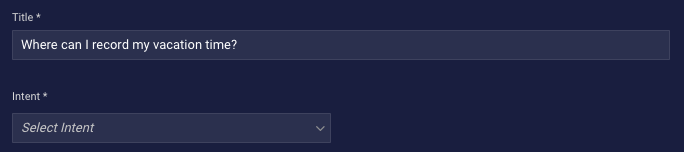
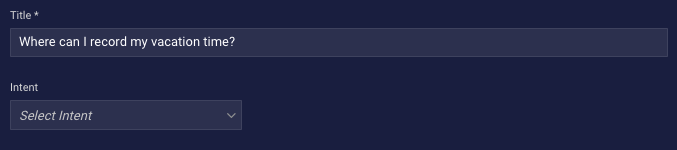
KB enhancements for release 8.0

diff --git a/pages/Documents/ConversationalAI/KnowledgeBase/InternalKnowledgeBases/articles.md b/pages/Documents/ConversationalAI/KnowledgeBase/InternalKnowledgeBases/articles.md
@@ -23,7 +23,7 @@ An article is a focused piece of content (a message) on a single topic that you 
 2. Specify the following basic settings:
     * **Title**: Enter a complete sentence or question, e.g., "I can't remember my password." or, "Do we have a company org chart?" See farther below on this page for best practices.
     * **Intent Qualifiers**: This field is only shown if you're using [Knowledge Base intents](knowledge-base-internal-knowledge-bases-introduction.html#domain-intents-versus-knowledge-base-intents). Intent qualifiers are alternative ways that people ask for the article, i.e., alternative ways to communicate the same intent. See farther below on this page for best practices. **Note**: An intent qualifier can't be used more than once, i.e., in more than one article.
-    * **Intent**: This field is only shown if the knowledge base is using [Domain intents](knowledge-base-internal-knowledge-bases-introduction.html#domain-intents-versus-knowledge-base-intents). Select the intent to associate with the article. See farther below on this page for best practices. If needed, you can use the **Create intent** option in the drop-down list to create the intent in Intent Manager from this location. Similarly, there's an **Update training phrases** link for updating the training phrases in Intent Manager from here. **Note**: An intent can't be used more than once, i.e., in more than one article.
+    * **Intent**: This field is only shown if the knowledge base is using [Domain intents](knowledge-base-internal-knowledge-bases-introduction.html#domain-intents-versus-knowledge-base-intents). Select the intent to associate with the article. See farther below on this page for best practices. If needed, you can use the **Create intent** option in the drop-down list to create the intent in Intent Manager from this location. Similarly, there's an **Update training phrases** link for updating the training phrases in Intent Manager from here. **Note**: An intent can't be used more than once, i.e., in more than one article. Also note that you don’t need to link your articles to intents right away, as the **Intent** field is optional. This is deliberate because it allows you to get started with a knowledge base by adding just the articles first. Then, you can create intents for the content you care about the most, and link those to the relevant articles. This means you can focus on specific content areas in your knowledge base, and manage the content overall with varying levels of effort on your part. The approach gives you flexibility as you maintain the knowledge base over time.
     * **Summary**: Enter a short response or message to be sent to the user. You can include web links, although depending on the channel they might not display correctly. For SMS/Messaging, you might need to show the URL by itself, not wrapped in HTML, since the HTML will be sent as plain text over these channels. For details on the subset of HTML that can be used in this field, see [here](knowledge-base-common-settings-tasks.html#format-text-in-an-article).
     * **Detail**: This field can be used to include longer messages to the user. For messaging, it's recommended that you keep the responses as brief as possible. For details on the subset of HTML that can be used in this field, see [here](knowledge-base-common-settings-tasks.html#format-text-in-an-article).
     * **Category**: To assign the article to a category, enter the category name. This lets you subsequently filter and find articles based on category in the Knowledge Base application.

diff --git a/pages/Documents/ConversationalAI/KnowledgeBase/using-intents-with-kbs.md b/pages/Documents/ConversationalAI/KnowledgeBase/using-intents-with-kbs.md
@@ -40,6 +40,8 @@ After you've added a knowledge base that is associated to a domain, configure th
 
 <img style="width:600px" src="img/ConvoBuilder/kb_associate_article.png">
 
+You don’t need to link your articles to intents right away, as the **Intent** field is optional. This is deliberate because it allows you to get started with a knowledge base by adding just the articles first. Then, you can create intents for the content you care about the most, and link those to the relevant articles. This means you can focus on specific content areas in your knowledge base, and manage the content overall with varying levels of effort on your part. The approach gives you flexibility as you maintain the knowledge base over time.
+
 ### Tune a knowledge base
 
 After you've added your content and linked it to intents, tune the knowledge base. Tuning involves:
@@ -99,6 +101,15 @@ When the Text mode is used, a text-to-text search is performed:
 
 * With an [external knowledge base with LivePerson AI](knowledge-base-external-knowledge-bases-external-kbs-with-liveperson-ai.html), the search algorithm checks the consumer's input against the title and tags.
 * With an [internal knowledge base](knowledge-base-internal-knowledge-bases-introduction.html), the search algorithm checks the consumer's input against the title, summary, detail, [Knowledge Base intents](knowledge-base-internal-knowledge-bases-introduction.html#domain-intents-versus-knowledge-base-intents) (intent qualifiers), and tags.
+
+You can improve the quality of your knowledge base answers by linking your articles to intents and performing intent-based searches. However, often this change is introduced gradually, as time and opportunity allow. Typically, Text searches are used when you haven’t yet linked your articles to intents.
+
+Be aware that, when a Text search is performed, if a match for the search phrase is found, the associated confidence score is reduced to FAIR_PLUS if either of the following is true:
+
+* The search phrase has less than three (3) words.
+* The search phrase and the stored content don’t have matched words in sequence (with two deviations).
+
+Therefore, if you’re using a Text search, LivePerson recommends that you test and tune the knowledge base using a threshold of FAIR_PLUS. If you aren’t satisfied with the results, increase the threshold to GOOD.
 
 ### Scoring and thresholds
 
